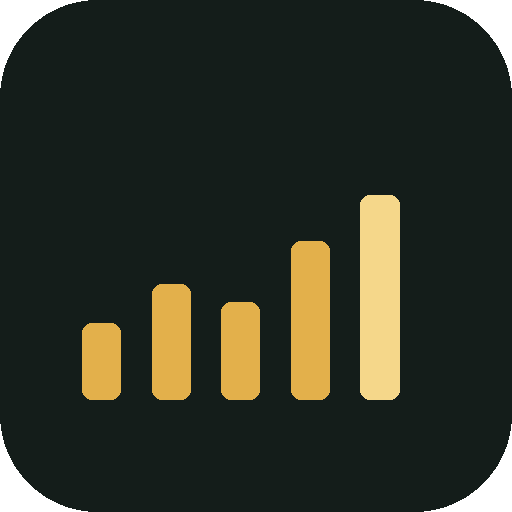
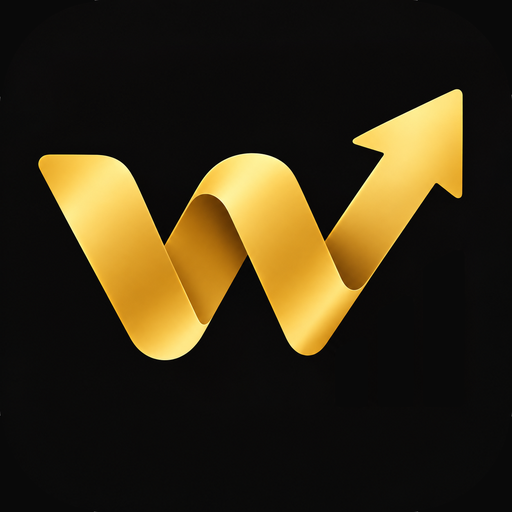
feat: renomeia app para Wynd, novos ícones PWA

diff --git a/src/pages/Login.tsx b/src/pages/Login.tsx
@@ -53,7 +53,7 @@ export default function Login() {
         onSubmit={handleSubmit}
       >
         <div className="text-center mb-10">
-          <h1 className="text-4xl font-black tracking-tighter text-[#f2f0ea] mb-2 drop-shadow-md">FLUXO</h1>
+          <h1 className="text-4xl font-black tracking-tighter text-[#f2f0ea] mb-2 drop-shadow-md">Wynd</h1>
           <p className="text-[#8fa39a] text-[0.95rem]">Entre com usuário, e-mail ou CPF</p>
         </div>
 
@@ -111,7 +111,7 @@ export default function Login() {
             <span className="flex items-center justify-center gap-2">
               <i className="fa-solid fa-circle-notch fa-spin" /> Autenticando...
             </span>
-          ) : 'Entrar no Fluxo'}
+          ) : 'Entrar no Wynd'}
         </button>
       </form>
     </div>

diff --git a/index.html b/index.html
@@ -6,9 +6,9 @@
     <meta name="theme-color" content="#141d1a" />
     <meta name="apple-mobile-web-app-capable" content="yes" />
     <meta name="apple-mobile-web-app-status-bar-style" content="black-translucent" />
-    <meta name="apple-mobile-web-app-title" content="FLUXO" />
+    <meta name="apple-mobile-web-app-title" content="Wynd" />
     <link rel="apple-touch-icon" href="/apple-touch-icon.png" />
-    <title>FLUXO</title>
+    <title>Wynd</title>
     <link rel="stylesheet" href="https://cdnjs.cloudflare.com/ajax/libs/font-awesome/6.5.2/css/all.min.css" />
   </head>
   <body>

diff --git a/src/components/Layout.tsx b/src/components/Layout.tsx
@@ -41,7 +41,7 @@ export function Layout() {
       {/* SIDEBAR - DESKTOP ONLY */}
       <aside className="hidden md:flex flex-col w-64 bg-[#141d1a]/80 backdrop-blur-xl border-r border-white/10 z-20">
         <div className="p-6">
-          <h1 className="text-2xl font-black tracking-tighter text-white">FLUXO</h1>
+          <h1 className="text-2xl font-black tracking-tighter text-white">Wynd</h1>
         </div>
         <nav className="flex-1 overflow-y-auto px-4 flex flex-col gap-1">
           {NAV_ITEMS.filter((item) => !item.module || hasPermission(item.module)).map((item) => (

diff --git a/vite.config.js b/vite.config.js
@@ -9,8 +9,8 @@ export default defineConfig({
       registerType: 'autoUpdate',
       includeAssets: ['apple-touch-icon.png'],
       manifest: {
-        name: 'FLUXO - Controle Financeiro',
-        short_name: 'FLUXO',
+        name: 'Wynd - Controle Financeiro',
+        short_name: 'Wynd',
         description: 'Controle financeiro pessoal e familiar',
         theme_color: '#141d1a',
         background_color: '#141d1a',
